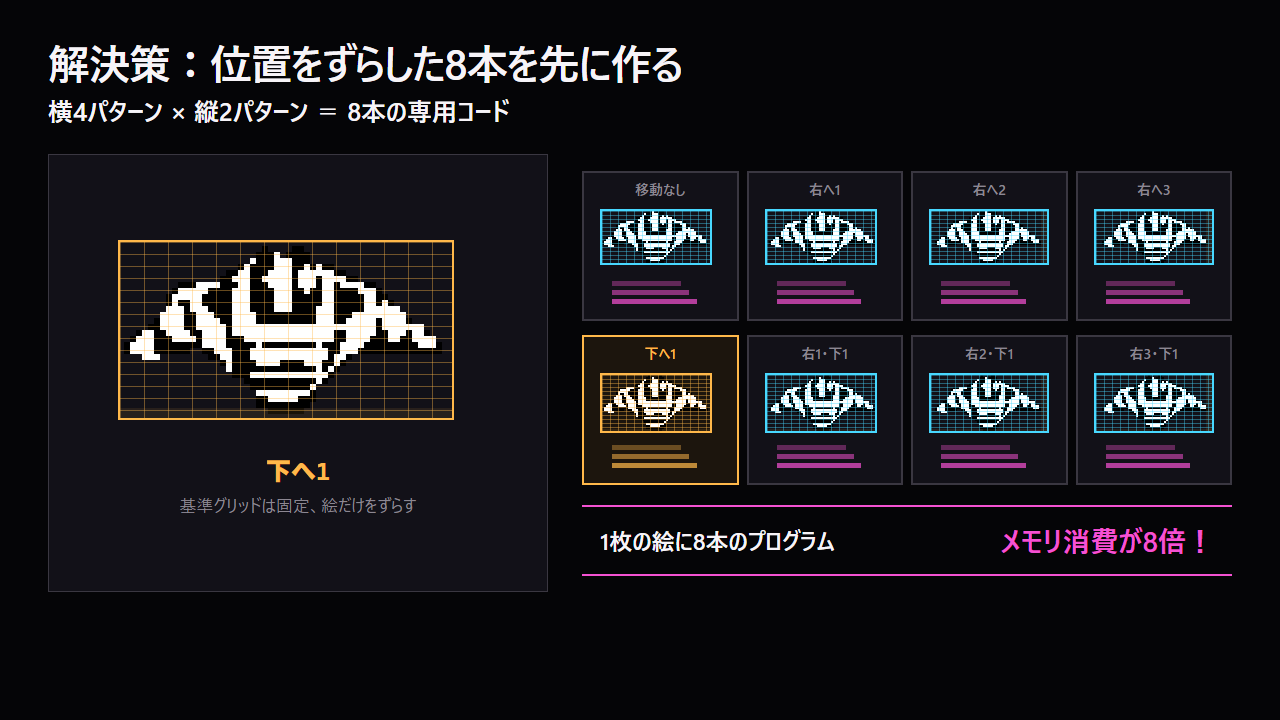
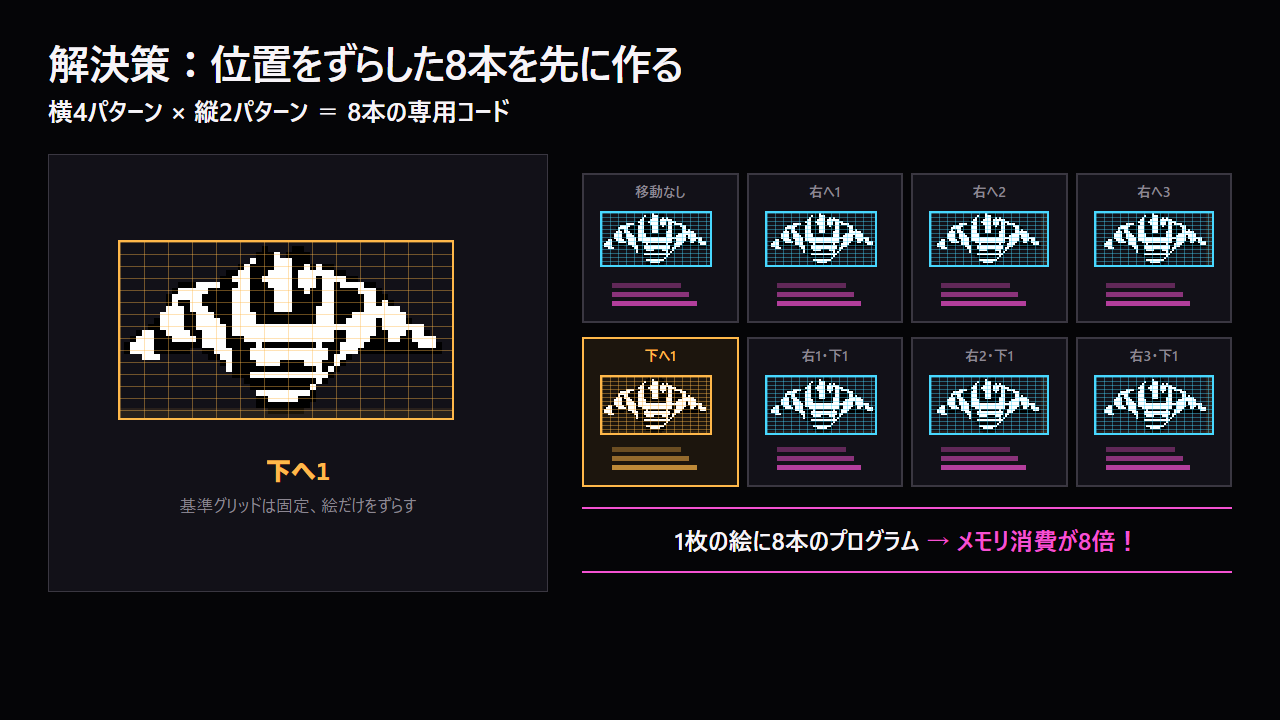
codex: 4ドット移動と容量比較の指示を反映

Changed region(s): [[0.4688, 0.2139, 0.9688, 0.825]]

diff --git a/GPT/video/explainer_prototype/src/ExplainerPrototype.tsx b/GPT/video/explainer_prototype/src/ExplainerPrototype.tsx
@@ -838,8 +838,8 @@ const CodeStripes: React.FC<{color: string; lines?: number; height?: number; gap
 
 const MemoryGauge: React.FC<{count: number; compiled?: boolean}> = ({count, compiled = false}) => {
   const color = compiled ? C.magenta : C.cyan;
-  const programWidth = compiled ? 164 : 18;
-  const itemWidth = compiled ? programWidth : 72;
+  const programWidth = compiled ? 164 : 68;
+  const itemWidth = compiled ? programWidth : 82;
   return (
     <div style={{display: 'flex', gap: 6, height: 23, alignItems: 'stretch'}}>
       {!compiled ? (
@@ -851,11 +851,11 @@ const MemoryGauge: React.FC<{count: number; compiled?: boolean}> = ({count, comp
             background: color,
             color: C.bg,
             fontFamily: FONT,
-            fontSize: 0,
+            fontSize: 10,
             fontWeight: 900,
           }}
         >
-          P
+          プログラム
         </div>
       ) : null}
       {Array.from({length: 3}).map((_, i) => {
@@ -921,7 +921,7 @@ const CapacityCostScene: React.FC = () => {
             <div style={{fontFamily: MONO, color: C.cyan, fontSize: 24, fontWeight: 900}}>→</div>
             <div style={{flex: 1, padding: '9px 14px', border: '1px solid #4a4651', background: '#0a0a0d'}}>
               <div style={{fontFamily: FONT, color: C.dim, fontSize: 12, fontWeight: 800, marginBottom: 6}}>1つの小さな汎用プログラム</div>
-              <CodeStripes color={C.cyan} lines={4} height={4} gap={3} />
+              <div style={{width: 55}}><CodeStripes color={C.cyan} lines={4} height={4} gap={3} /></div>
             </div>
           </div>
           <div style={{marginTop: 23}}>
@@ -955,16 +955,16 @@ const CapacityCostScene: React.FC = () => {
 
 const PositionLimitScene: React.FC = () => {
   const frame = useCurrentFrame();
-  const offsets = [0, 4, 8];
-  const offset = offsets[Math.floor(frame / 90) % offsets.length];
+  const offsets = [0, 4, 8, 12, 16, 20];
+  const offset = offsets[Math.floor(frame / 24) % offsets.length];
   const scale = 8;
-  const gridWidth = 68 * scale;
+  const gridWidth = 76 * scale;
   const gridHeight = 28 * scale;
   return (
     <AbsoluteFill style={{opacity: fade(frame, 300), backgroundColor: C.bg, padding: '38px 52px 0', boxSizing: 'border-box'}}>
       <Title size={42}>コンパイルドスプライトの欠点</Title>
       <div style={{fontFamily: FONT, color: C.white, fontSize: 25, fontWeight: 900, marginTop: 5}}>
-        欠点2：同じ場所に絵を描くことしかできない
+        欠点2：1ドット単位の移動ができない
       </div>
 
       <div style={{display: 'flex', gap: 55, alignItems: 'center', marginTop: 31}}>
@@ -980,13 +980,20 @@ const PositionLimitScene: React.FC = () => {
               />
               <div
                 style={{
+                  position: 'absolute', left: offset * scale, top: 0,
+                  width: 55 * scale, height: 28 * scale, boxSizing: 'border-box',
+                  border: `6px solid ${C.orange}`, zIndex: 3, pointerEvents: 'none',
+                }}
+              />
+              <div
+                style={{
                   position: 'absolute', inset: 0, zIndex: 2, border: `2px solid ${C.cyan}`,
                   backgroundImage: `linear-gradient(to right, ${C.cyan}88 1px, transparent 1px), linear-gradient(to bottom, ${C.cyan}88 1px, transparent 1px)`,
                   backgroundSize: `${4 * scale}px ${2 * scale}px`, pointerEvents: 'none',
                 }}
               />
             </div>
-            {[0, 4, 8].map((value) => (
+            {offsets.map((value) => (
               <div
                 key={value}
                 style={{
@@ -1101,9 +1108,8 @@ const AlignmentScene: React.FC = () => {
               );
             })}
           </div>
-          <div style={{display: 'flex', justifyContent: 'space-between', alignItems: 'center', marginTop: 20, padding: '15px 18px', borderTop: `2px solid ${C.magenta}`, borderBottom: `2px solid ${C.magenta}`}}>
-            <div style={{fontFamily: FONT, color: C.white, fontSize: 23, fontWeight: 900}}>1枚の絵に8本のプログラム</div>
-            <div style={{fontFamily: FONT, color: C.magenta, fontSize: 28, fontWeight: 900}}>メモリ消費が8倍！</div>
+          <div style={{marginTop: 20, padding: '15px 18px', borderTop: `2px solid ${C.magenta}`, borderBottom: `2px solid ${C.magenta}`, fontFamily: FONT, color: C.white, fontSize: 24, fontWeight: 900, textAlign: 'center'}}>
+            1枚の絵に8本のプログラム <span style={{color: C.magenta}}>→ メモリ消費が8倍！</span>
           </div>
         </div>
       </div>
